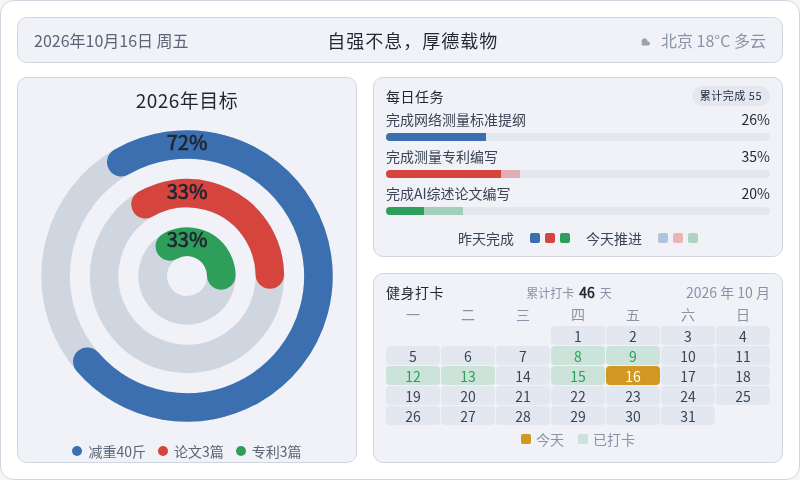
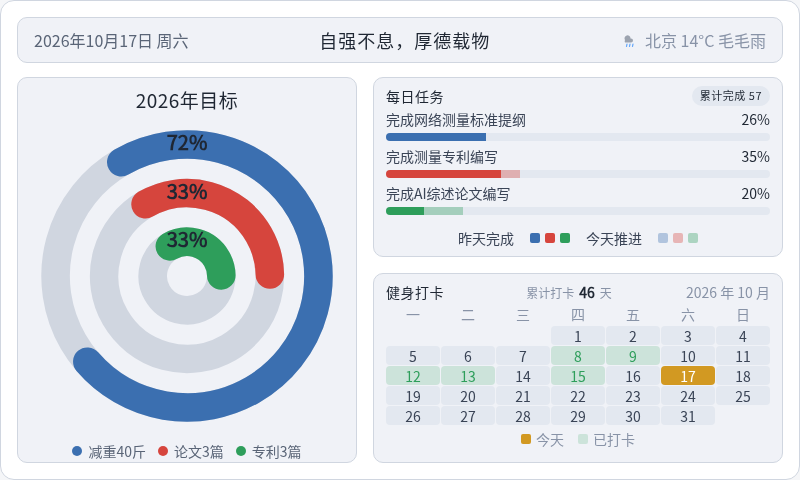
chore: 每日看板刷新 2026-10-17

diff --git a/output/dashboard/dashboard.html b/output/dashboard/dashboard.html
@@ -185,11 +185,11 @@
 <body>
   <div class="dash">
     <div class="topbar">
-      <div class="tb-date" id="tbDate">2026年10月16日 周五</div>
+      <div class="tb-date" id="tbDate">2026年10月17日 周六</div>
       <div class="tb-slogan">自强不息，厚德载物</div>
       <div class="tb-weather">
-        <svg width="16" height="16" viewBox="0 0 16 16" aria-hidden="true"><path d="M5 11 a3 3 0 1 1 5.5 -1.5 h0.5 a2 2 0 1 1 0 4 H5 a2.5 2.5 0 0 1 0 -2.5z" fill="#9ca3af"/></svg>
-        <span>北京 18°C 多云</span>
+        <svg width="16" height="16" viewBox="0 0 16 16" aria-hidden="true"><path d="M4 8 a3 3 0 1 1 5.5 -1.5 h0.5 a2 2 0 1 1 0 4 H4 a2.5 2.5 0 0 1 0 -2.5z" fill="#9ca3af"/><g stroke="#60a5fa" stroke-width="1.2" stroke-linecap="round"><line x1="6" y1="12" x2="5.5" y2="14.5"/><line x1="9" y1="12" x2="8.5" y2="14.5"/><line x1="12" y1="12" x2="11.5" y2="14.5"/></g></svg>
+        <span>北京 14°C 毛毛雨</span>
       </div>
     </div>
     <div class="content">
@@ -210,7 +210,7 @@
     </div>
     <div class="col-right">
       <div class="panel tasks-panel">
-        <div class="panel-title" style="color:#1f2733">每日任务<span class="task-done-count">累计完成  55</span></div>
+        <div class="panel-title" style="color:#1f2733">每日任务<span class="task-done-count">累计完成  57</span></div>
         <div class="task">
           <div class="task-head"><span style="color:#3a4456">完成网络测量标准提纲</span><span class="task-val" style="color:#1f2733">26%</span></div>
           <div class="bar">
@@ -248,7 +248,7 @@
           <span class="cal-date">2026 年 10 月</span>
         </div>
         <div class="cal-grid wk"><span>一</span><span>二</span><span>三</span><span>四</span><span>五</span><span>六</span><span>日</span></div>
-        <div class="cal-grid"><span class="cell empty"></span><span class="cell empty"></span><span class="cell empty"></span><span class="cell" style="background:#e3e8f0;color:#3a4456">1</span><span class="cell" style="background:#e3e8f0;color:#3a4456">2</span><span class="cell" style="background:#e3e8f0;color:#3a4456">3</span><span class="cell" style="background:#e3e8f0;color:#3a4456">4</span><span class="cell" style="background:#e3e8f0;color:#3a4456">5</span><span class="cell" style="background:#e3e8f0;color:#3a4456">6</span><span class="cell" style="background:#e3e8f0;color:#3a4456">7</span><span class="cell done" style="background:rgba(46,158,91,0.18);color:#2e9e5b">8</span><span class="cell done" style="background:rgba(46,158,91,0.18);color:#2e9e5b">9</span><span class="cell" style="background:#e3e8f0;color:#3a4456">10</span><span class="cell" style="background:#e3e8f0;color:#3a4456">11</span><span class="cell done" style="background:rgba(46,158,91,0.18);color:#2e9e5b">12</span><span class="cell done" style="background:rgba(46,158,91,0.18);color:#2e9e5b">13</span><span class="cell" style="background:#e3e8f0;color:#3a4456">14</span><span class="cell done" style="background:rgba(46,158,91,0.18);color:#2e9e5b">15</span><span class="cell today" style="background:#d29922;color:#ffffff">16</span><span class="cell" style="background:#e3e8f0;color:#3a4456">17</span><span class="cell" style="background:#e3e8f0;color:#3a4456">18</span><span class="cell" style="background:#e3e8f0;color:#3a4456">19</span><span class="cell" style="background:#e3e8f0;color:#3a4456">20</span><span class="cell" style="background:#e3e8f0;color:#3a4456">21</span><span class="cell" style="background:#e3e8f0;color:#3a4456">22</span><span class="cell" style="background:#e3e8f0;color:#3a4456">23</span><span class="cell" style="background:#e3e8f0;color:#3a4456">24</span><span class="cell" style="background:#e3e8f0;color:#3a4456">25</span><span class="cell" style="background:#e3e8f0;color:#3a4456">26</span><span class="cell" style="background:#e3e8f0;color:#3a4456">27</span><span class="cell" style="background:#e3e8f0;color:#3a4456">28</span><span class="cell" style="background:#e3e8f0;color:#3a4456">29</span><span class="cell" style="background:#e3e8f0;color:#3a4456">30</span><span class="cell" style="background:#e3e8f0;color:#3a4456">31</span></div>
+        <div class="cal-grid"><span class="cell empty"></span><span class="cell empty"></span><span class="cell empty"></span><span class="cell" style="background:#e3e8f0;color:#3a4456">1</span><span class="cell" style="background:#e3e8f0;color:#3a4456">2</span><span class="cell" style="background:#e3e8f0;color:#3a4456">3</span><span class="cell" style="background:#e3e8f0;color:#3a4456">4</span><span class="cell" style="background:#e3e8f0;color:#3a4456">5</span><span class="cell" style="background:#e3e8f0;color:#3a4456">6</span><span class="cell" style="background:#e3e8f0;color:#3a4456">7</span><span class="cell done" style="background:rgba(46,158,91,0.18);color:#2e9e5b">8</span><span class="cell done" style="background:rgba(46,158,91,0.18);color:#2e9e5b">9</span><span class="cell" style="background:#e3e8f0;color:#3a4456">10</span><span class="cell" style="background:#e3e8f0;color:#3a4456">11</span><span class="cell done" style="background:rgba(46,158,91,0.18);color:#2e9e5b">12</span><span class="cell done" style="background:rgba(46,158,91,0.18);color:#2e9e5b">13</span><span class="cell" style="background:#e3e8f0;color:#3a4456">14</span><span class="cell done" style="background:rgba(46,158,91,0.18);color:#2e9e5b">15</span><span class="cell" style="background:#e3e8f0;color:#3a4456">16</span><span class="cell today" style="background:#d29922;color:#ffffff">17</span><span class="cell" style="background:#e3e8f0;color:#3a4456">18</span><span class="cell" style="background:#e3e8f0;color:#3a4456">19</span><span class="cell" style="background:#e3e8f0;color:#3a4456">20</span><span class="cell" style="background:#e3e8f0;color:#3a4456">21</span><span class="cell" style="background:#e3e8f0;color:#3a4456">22</span><span class="cell" style="background:#e3e8f0;color:#3a4456">23</span><span class="cell" style="background:#e3e8f0;color:#3a4456">24</span><span class="cell" style="background:#e3e8f0;color:#3a4456">25</span><span class="cell" style="background:#e3e8f0;color:#3a4456">26</span><span class="cell" style="background:#e3e8f0;color:#3a4456">27</span><span class="cell" style="background:#e3e8f0;color:#3a4456">28</span><span class="cell" style="background:#e3e8f0;color:#3a4456">29</span><span class="cell" style="background:#e3e8f0;color:#3a4456">30</span><span class="cell" style="background:#e3e8f0;color:#3a4456">31</span></div>
         <div class="cal-legend">
           <span style="color:#8893a7"><i class="sw" style="background:#d29922"></i>今天</span>
           <span style="color:#8893a7"><i class="sw" style="background:rgba(46,158,91,0.18)"></i>已打卡</span>
